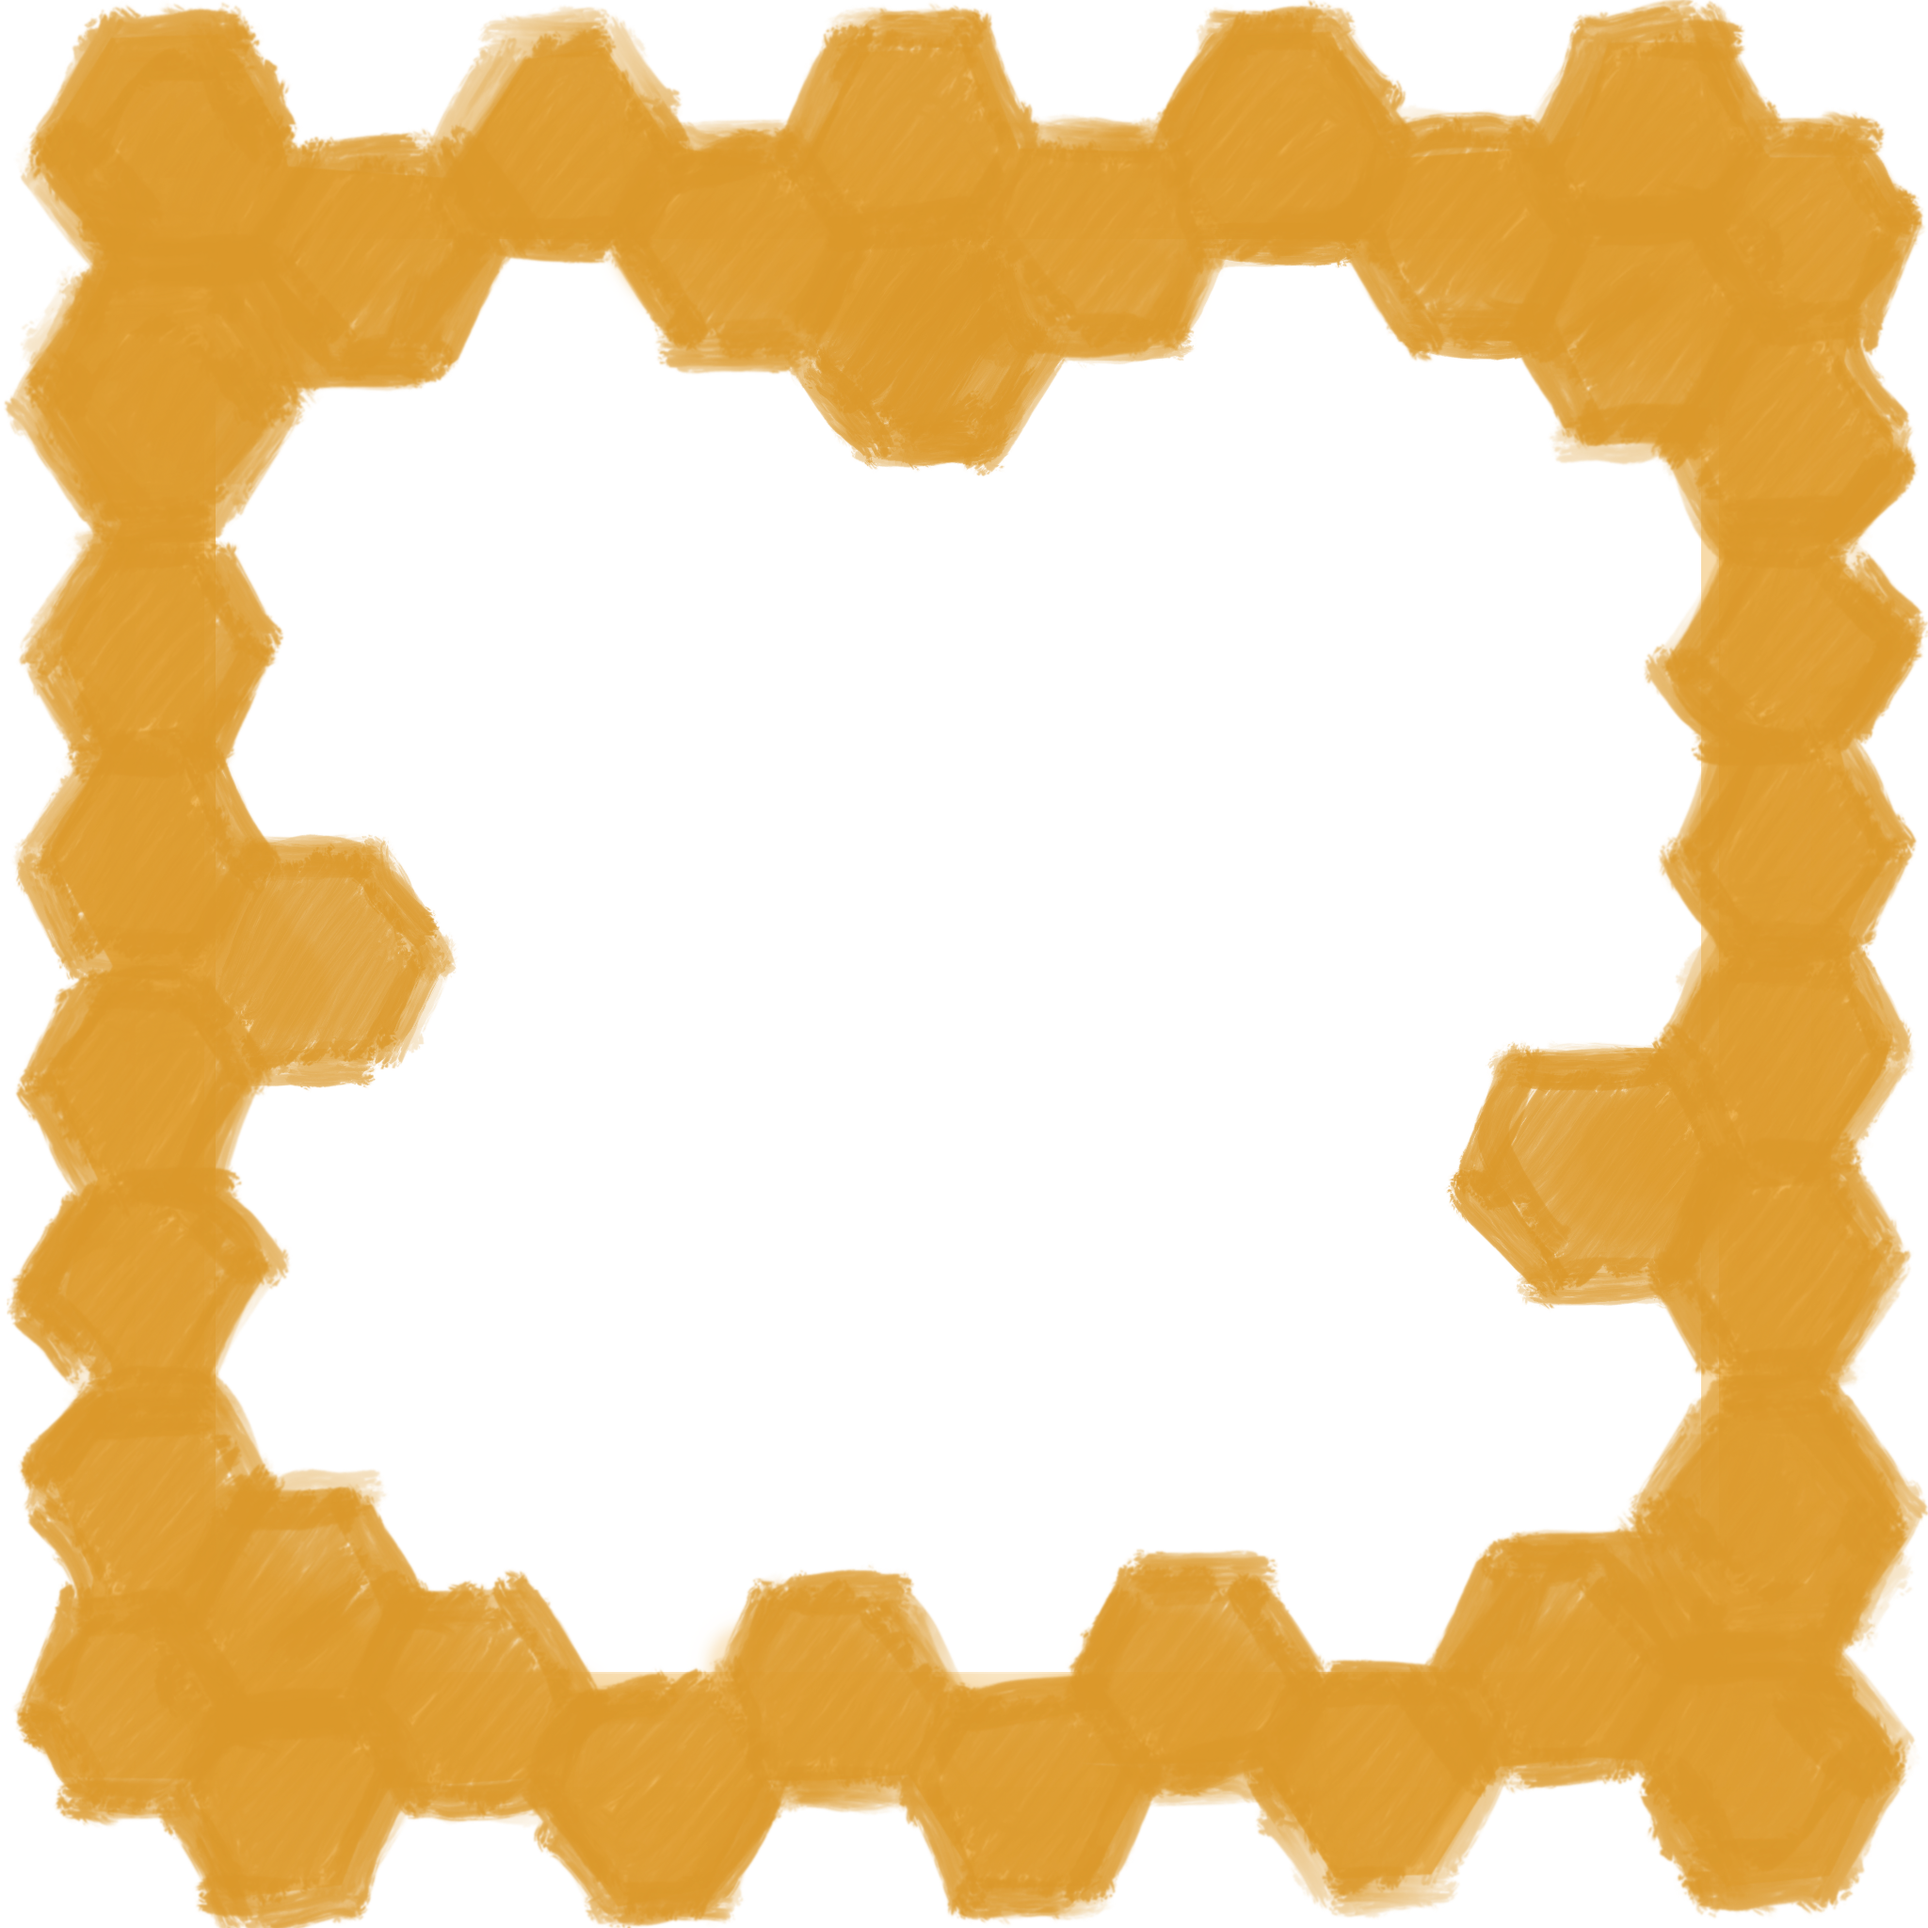
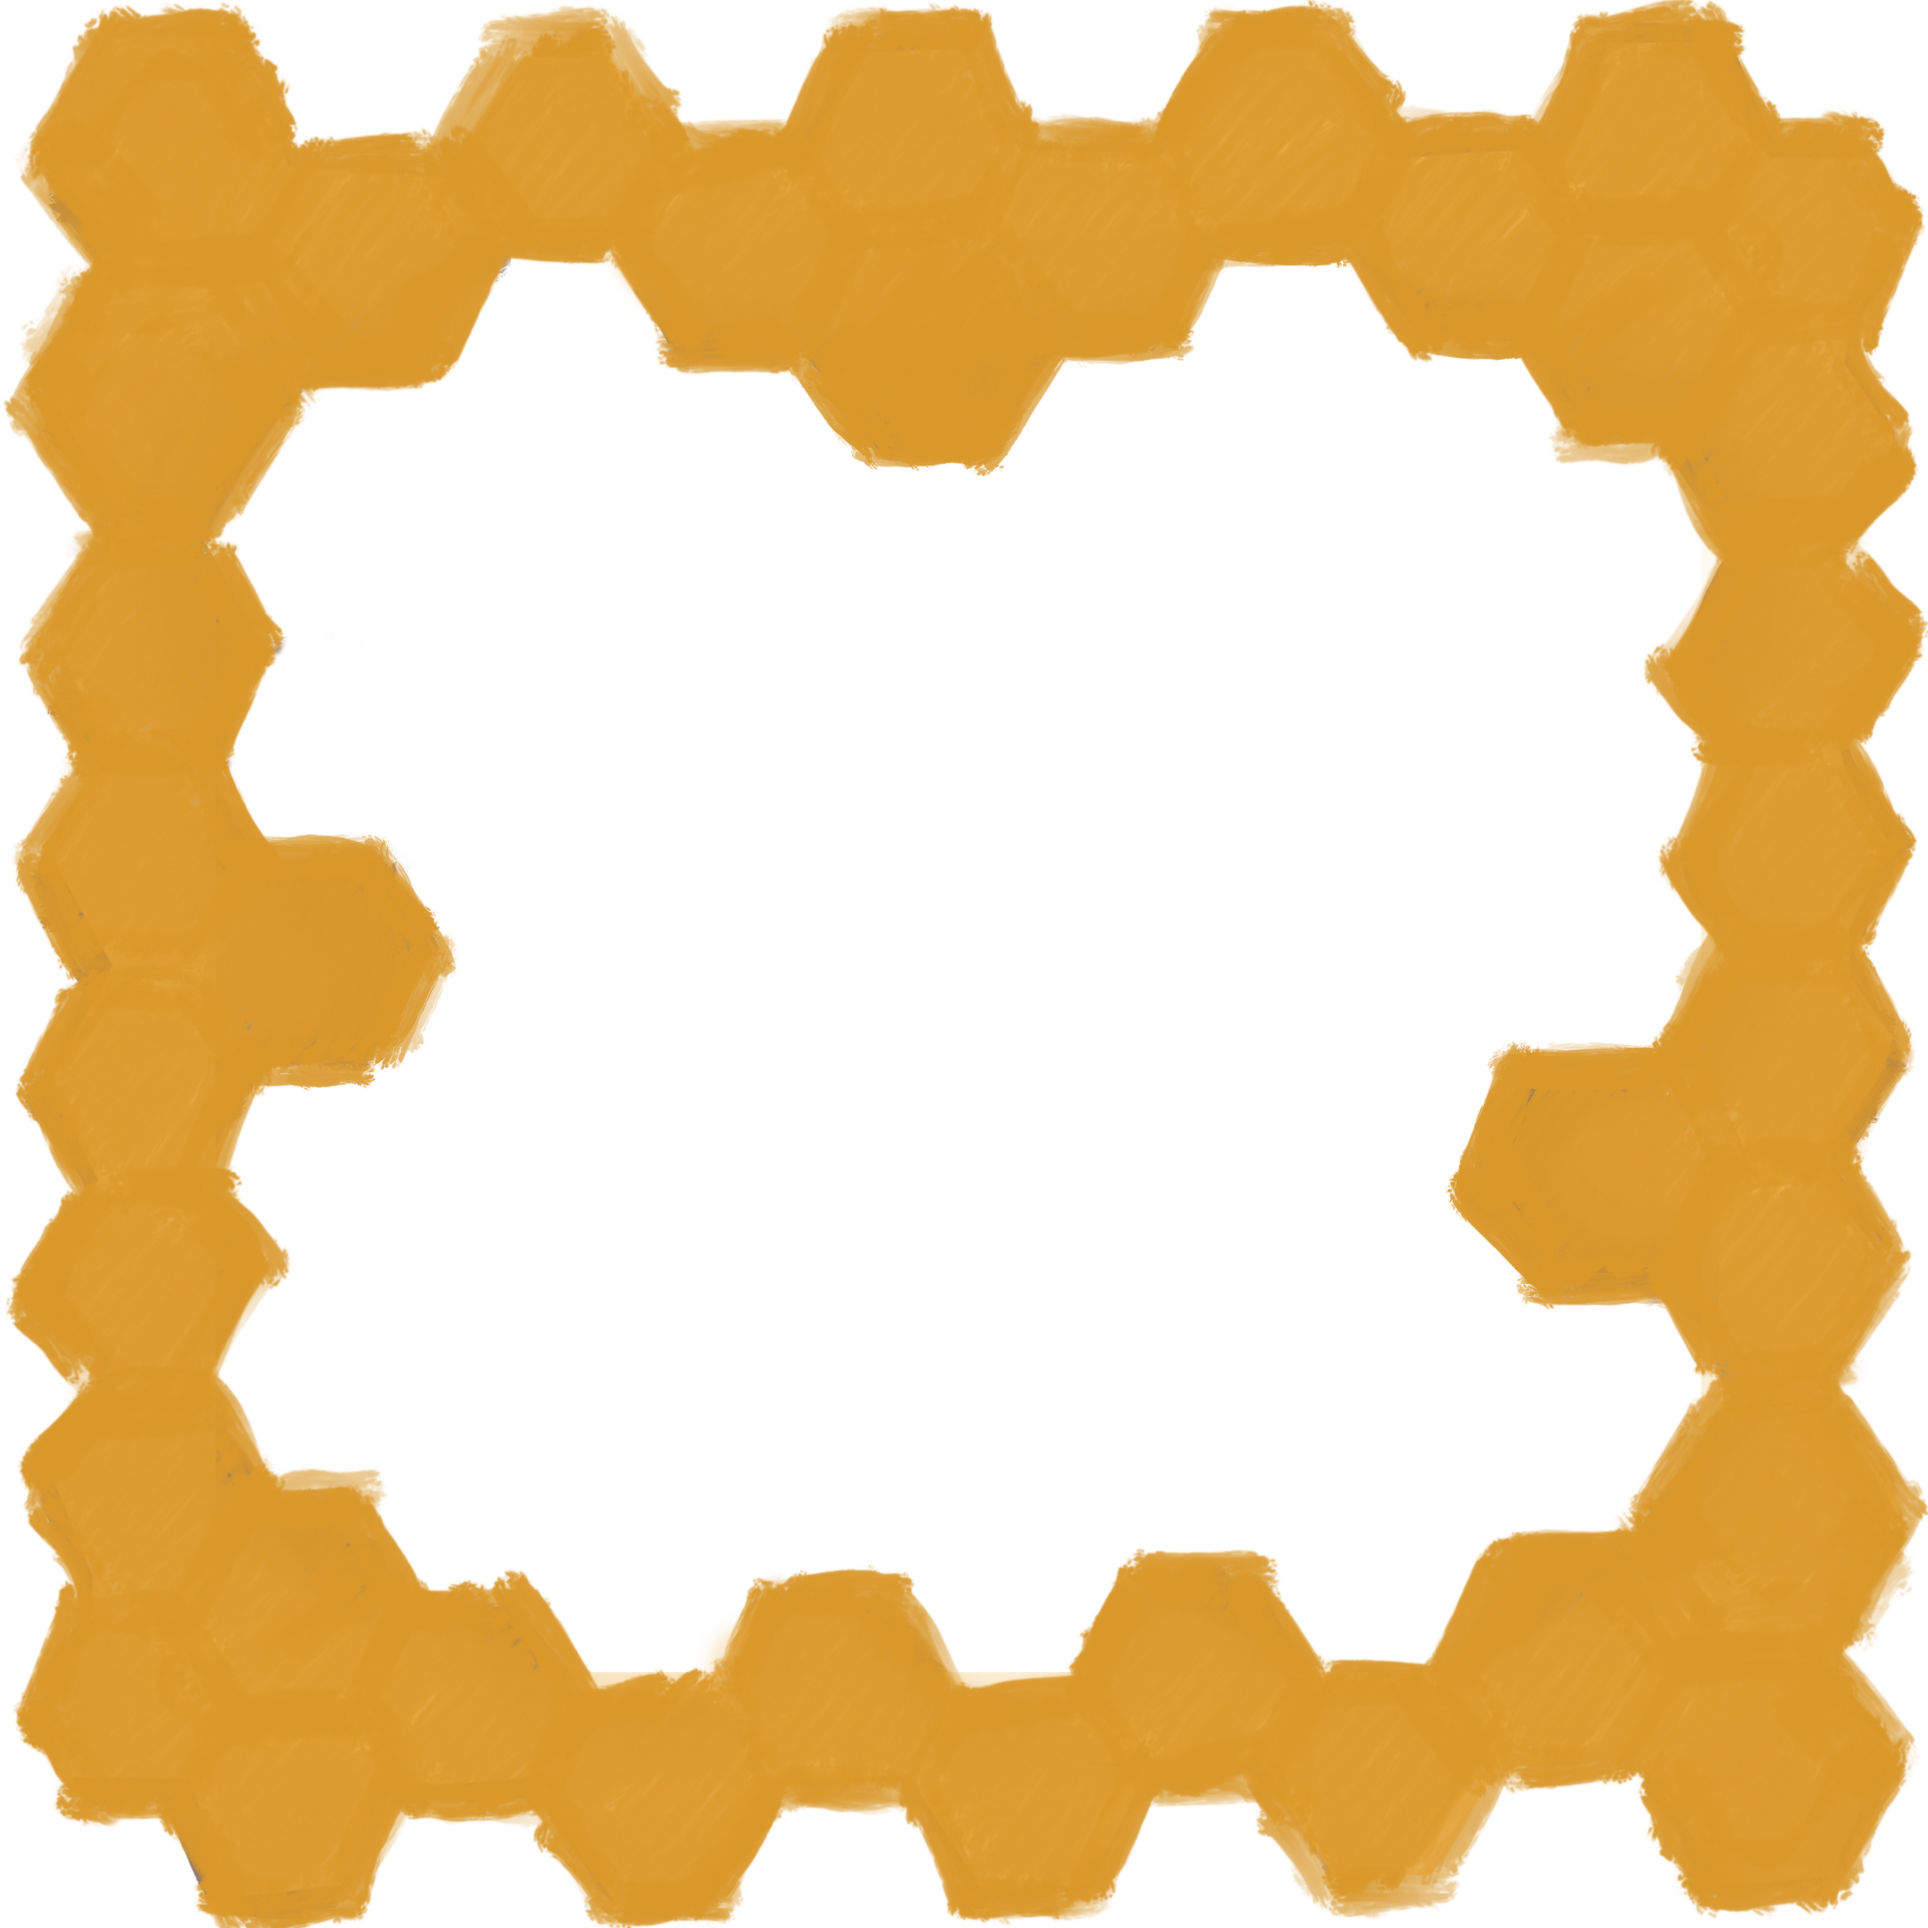
putting the honeycomb window in

diff --git a/index.html b/index.html
@@ -72,9 +72,14 @@
         <h4>Dance Dance Democracy</h4>
         <p>Instead, honey bees communicate with one-another to collectively make decisions. And they do this by dancing!</p>
         <!--<h4><a class="link" href="./dance.html">Start dancing!</a></h4>-->
-        <iframe class="playable inside" src="./dance.html" allowtransparency="true"></iframe>
+        <div class="inside">
+          <img src="./images/hexwindow.png">
+          <iframe class="playable" src="./dance.html" allowtransparency="true"></iframe>
+        </div>
         <p>Sometimes bees have to make important decisions that affect the whole colony like where to move to build a new hive. Scouts investigate the hive site options and dance the directions to their sisters to tell them where to go check.</p>
-        <iframe class="playable inside" src="./dance.html" allowtransparency="true"></iframe> <!-- this should actually be the inside/outside graphic -->
+        <div class="inside">
+          <iframe class="playable" src="./dance.html" allowtransparency="true"></iframe> <!-- this should actually be the inside/outside graphic -->
+        </div>
         <div class="note">Click and hold to direct the bee's dance.</div>
       </div>
       <div id="">

diff --git a/styles.css b/styles.css
@@ -97,8 +97,18 @@ blockquote {
   background-color: transparent;
 }
 
-
 .inside { /* for the in-the-hive bee simulations */
+  padding: 40px;
+  /*overflow: none;
+  background-image: url("./images/hexwindow.png");*/
+}
+
+.inside img {
+  position: absolute;
+  margin:-50px -15px 0;
+  width: 100%;
+  max-width: 600px;
+  pointer-events:none;
 }
 
 #footer {
